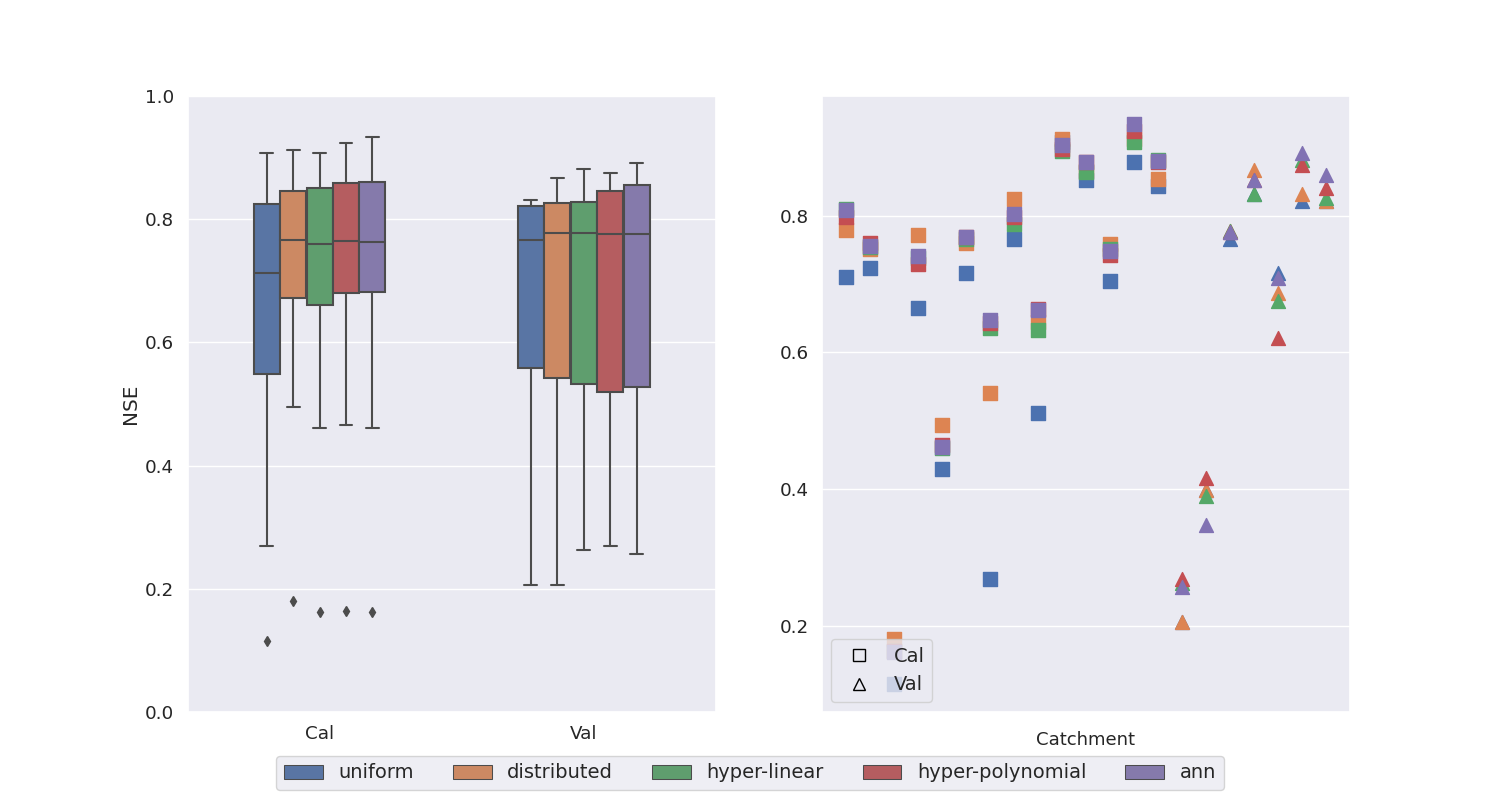
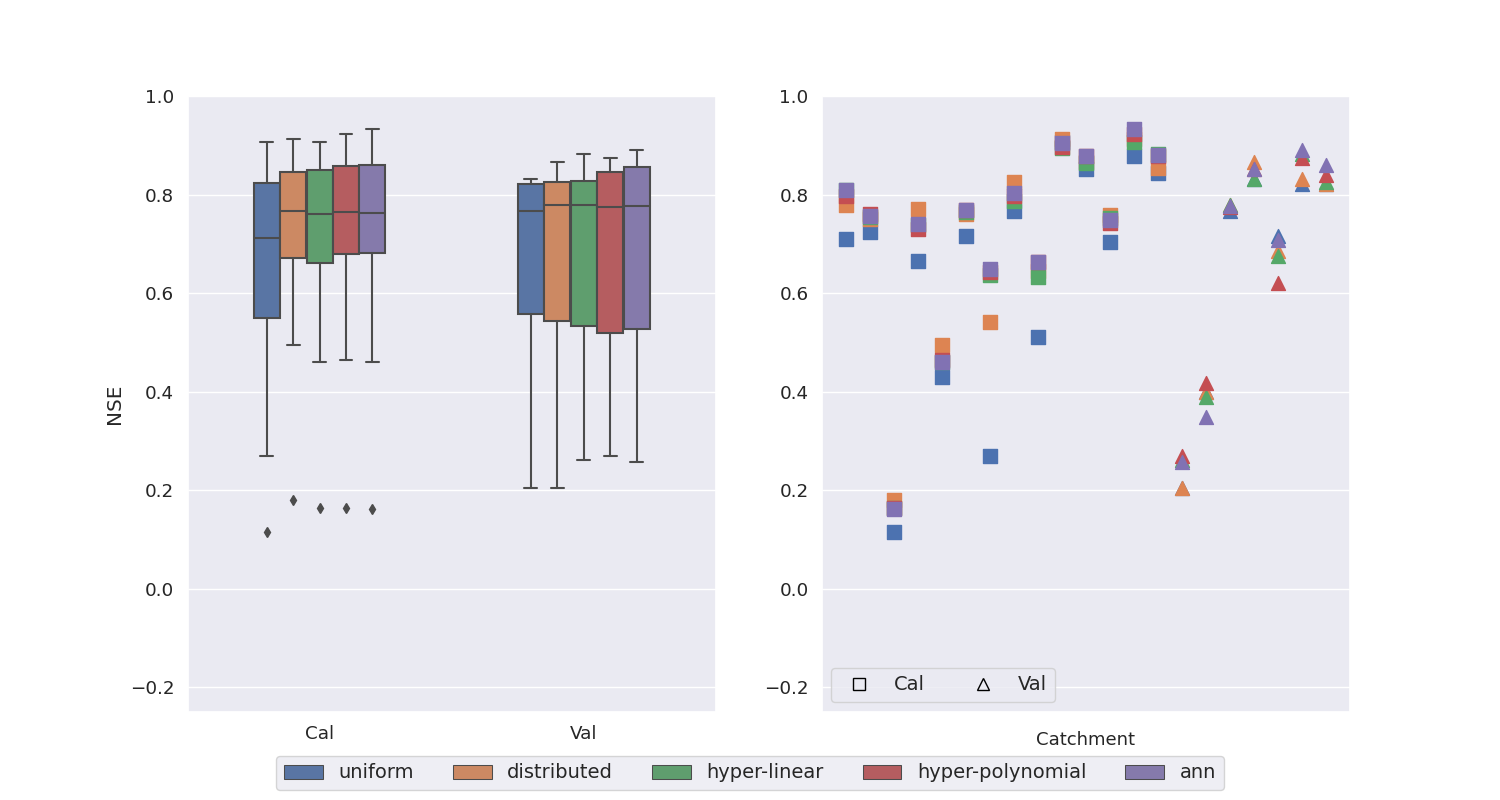
fix legend compare_cost

diff --git a/run_result-analysis.py b/run_result-analysis.py
@@ -133,7 +133,7 @@ def compare_cost(args, fobj="nse", figname="compare_cost", figsize=(15, 8)):
     axes[0].set(title=None, xlabel=None, ylabel="NSE")
 
     # Set y-axis limits and add grid
-    axes[0].set_ylim([0, 1])
+    axes[0].set_ylim([-0.25, 1])
     axes[0].yaxis.grid(True)
 
     axes[0].xaxis.grid(False)
@@ -188,13 +188,15 @@ def compare_cost(args, fobj="nse", figname="compare_cost", figsize=(15, 8)):
         )
         for m, l in zip(["s", "^"], ["Cal", "Val"])
     ]
-    axes[1].legend(handles=legend_elements, loc="lower left", fontsize=14)
+    axes[1].legend(handles=legend_elements, loc="lower left", ncols=2, fontsize=14)
 
     axes[1].xaxis.grid(False)
 
     axes[1].set_xlabel("Catchment", fontsize=13)
 
     axes[1].set_xticklabels([])
+
+    axes[1].set_ylim(axes[0].get_ylim())
 
     fig.legend(
         handles,
@@ -515,15 +517,15 @@ if __name__ == "__main__":
 
     args = initialize_args()
 
-    hydrograph(args, "cal", "hydrograph_cal")
-    hydrograph(args, "val", "hydrograph_val")
+    # hydrograph(args, "cal", "hydrograph_cal")
+    # hydrograph(args, "val", "hydrograph_val")
 
     compare_cost(args)
 
-    param_map(args)
+    # param_map(args)
 
     # cost_descent(args, niter=262)
 
-    desc_map(args)
+    # desc_map(args)
 
-    linear_cov(args)
+    # linear_cov(args)
